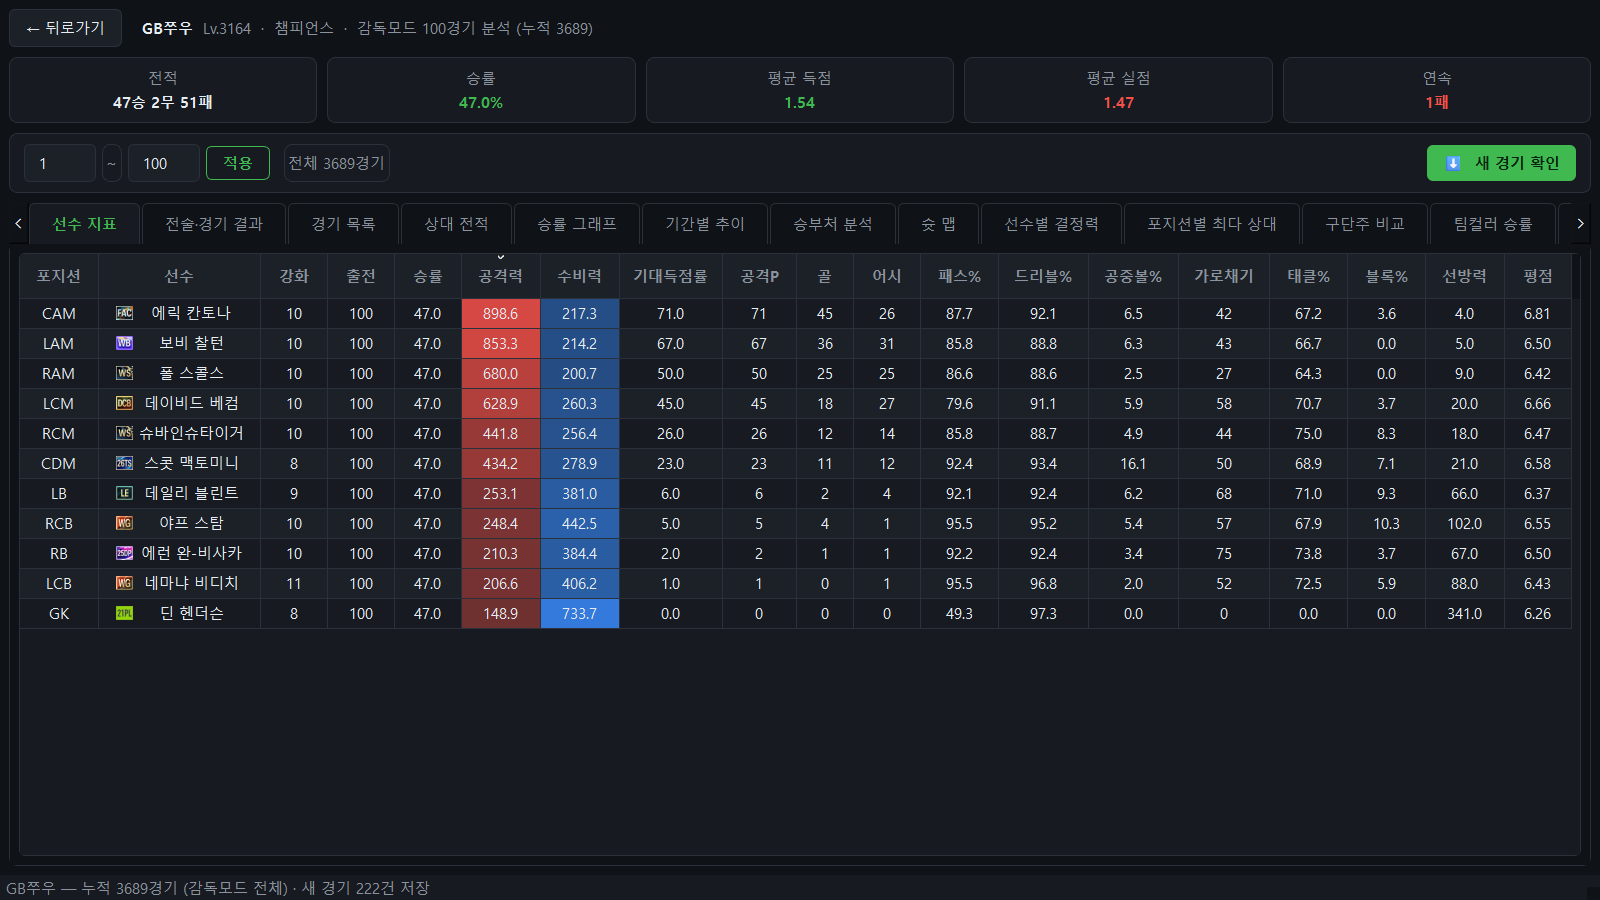
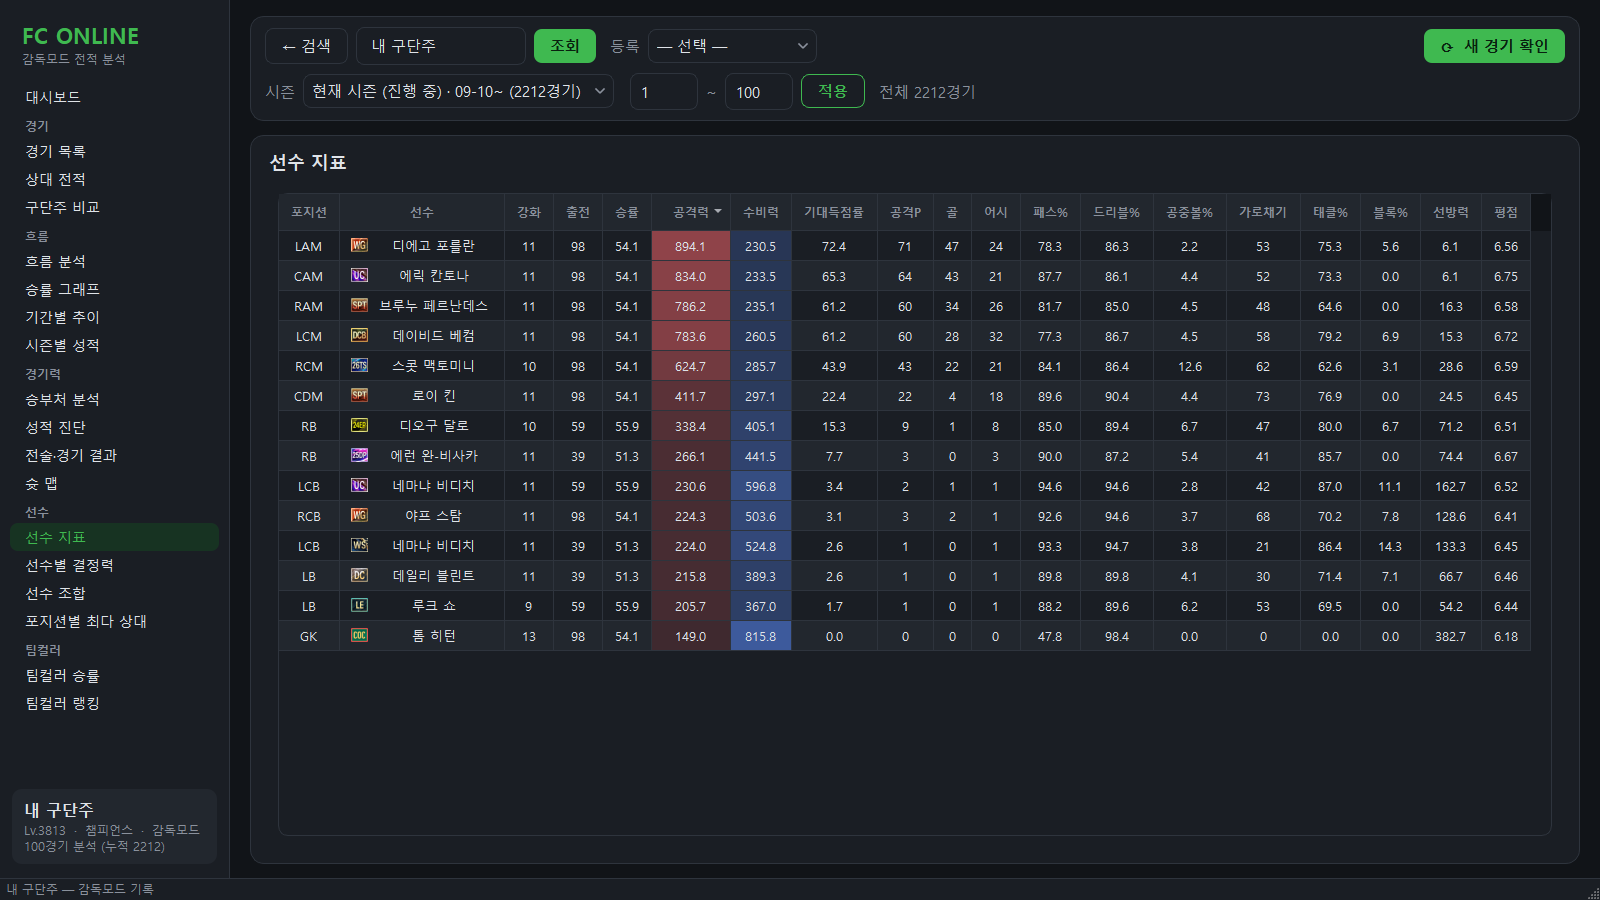
README·프로젝트 페이지 스크린샷을 지금 화면으로 바꾼다 (개편 4단계)
가로 탭·밝은 테마 이전 시절 6장을 다크 + 왼쪽 메뉴 + 대시보드 화면으로 다시 찍었다.
랭커 카드 단독 이미지는 대시보드에 흡수됐으므로 대시보드 전체(스크롤 아래까지) 한 장으로 바꿨다.

실데이터(최근 검색 계정 2,212경기)로 띄우되 닉네임은 메모리에서만 익명화했다 — 내 구단주는
"내 구단주", 상대 6,507명은 "상대1…". 대시보드의 '자주 만난 상대'와 최근 경기 툴팁에 남의
닉네임이 들어가서다. 최근 검색 칩이 보이는 검색 화면은 찍지 않았고, PNG 6장은 커밋 전에
하나씩 열어 닉네임이 없는 것을 확인했다. 랭커 카드의 순위·점수·레벨은 남아 있다 — 같은
계정은 예전 스크린샷에 닉네임째 공개돼 있었다.

diff --git a/docs/index.html b/docs/index.html
@@ -185,7 +185,7 @@ footer p{color:var(--faint);max-width:44em;line-height:1.8}
   <div class="wrap">
     <h2>화면</h2>
     <div class="shots">
-      <figure><img src="screenshots/ranker.png" alt="랭커 카드 — 순위·점수·전적·구단가치 요약" loading="lazy"><figcaption>랭커 카드 — 순위·점수·전적·구단가치 요약</figcaption></figure>
+      <figure><img src="screenshots/dashboard.png" alt="대시보드 — 지표·랭커 카드·승률 흐름·레이더·승부처" loading="lazy"><figcaption>대시보드 — 지표·랭커 카드·승률 흐름·레이더·승부처</figcaption></figure>
       <figure><img src="screenshots/shotmap.png" alt="슛 맵 — 슛 좌표와 유형·거리별 득점률" loading="lazy"><figcaption>슛 맵 — 슛 좌표와 유형·거리별 득점률</figcaption></figure>
       <figure><img src="screenshots/clutch.png" alt="승부처 분석 — 선제골 승률·시간 구간별 득실" loading="lazy"><figcaption>승부처 분석 — 선제골 승률·시간 구간별 득실</figcaption></figure>
       <figure><img src="screenshots/players.png" alt="선수 지표 — 포지션별 출전·평점·공수 지표" loading="lazy"><figcaption>선수 지표 — 포지션별 출전·평점·공수 지표</figcaption></figure>

diff --git a/README.md b/README.md
@@ -34,13 +34,16 @@
 어두운 테마(`theme.MODE` 로 밝은 테마도 고를 수 있다). 닉네임을 검색하면 **왼쪽 메뉴 + 대시보드**로 넘어가고, 메뉴(경기·흐름·경기력·선수·팀컬러)
 에서 상세 화면으로 들어간다. 시즌·표시 범위·새 경기 확인은 위쪽 바에 고정이라 어느 화면에서든 같다.
 
-> 아래 스크린샷은 **왼쪽 메뉴 이전(가로 탭) 시절** 것이다 — 대시보드 차트까지 들어간 뒤 새로 찍는다.
+> 스크린샷은 실데이터로 찍되 닉네임은 메모리에서만 익명화했다(내 구단주 · 상대1…).
+
+**대시보드** — 지표 4개 · 랭커 카드 · 승률 흐름 · 나 vs 상대 레이더 · 승부처 · 15분 득실 · 흐름 분석 · 시간대 · 자주 만난 상대
+![대시보드](docs/screenshots/dashboard.png)
 
 | | |
 |---|---|
-| **랭커 카드** — 순위·점수·전적·구단가치 요약<br>![랭커 카드](docs/screenshots/ranker.png) | **선수 지표** — 포지션별 출전·평점·공수 지표(공식 미제공 값 역산)<br>![선수 지표](docs/screenshots/players.png) |
+| **선수 지표** — 포지션별 출전·평점·공수 지표(공식 미제공 값 역산)<br>![선수 지표](docs/screenshots/players.png) | **슛 맵** — 슛 좌표를 하프 피치에 시각화(골/유효슛/빗나감)<br>![슛 맵](docs/screenshots/shotmap.png) |
 | **전술·경기 결과** — 상대 포메이션별 승률, 득·실점 유형<br>![전술·경기 결과](docs/screenshots/tactics.png) | **승률 그래프** — 기간별 승률·등급(디비전) 계단 그래프<br>![승률 그래프](docs/screenshots/trend.png) |
-| **승부처 분석** — 선제골 승률, 시간 구간별 득실, 시각대별 승률<br>![승부처 분석](docs/screenshots/clutch.png) | **슛 맵** — 슛 좌표를 하프 피치에 시각화(골/유효슛/빗나감)<br>![슛 맵](docs/screenshots/shotmap.png) |
+| **승부처 분석** — 선제골 승률, 시간 구간별 득실, 시각대별 승률<br>![승부처 분석](docs/screenshots/clutch.png) | |
 
 ## 시작하기
 
